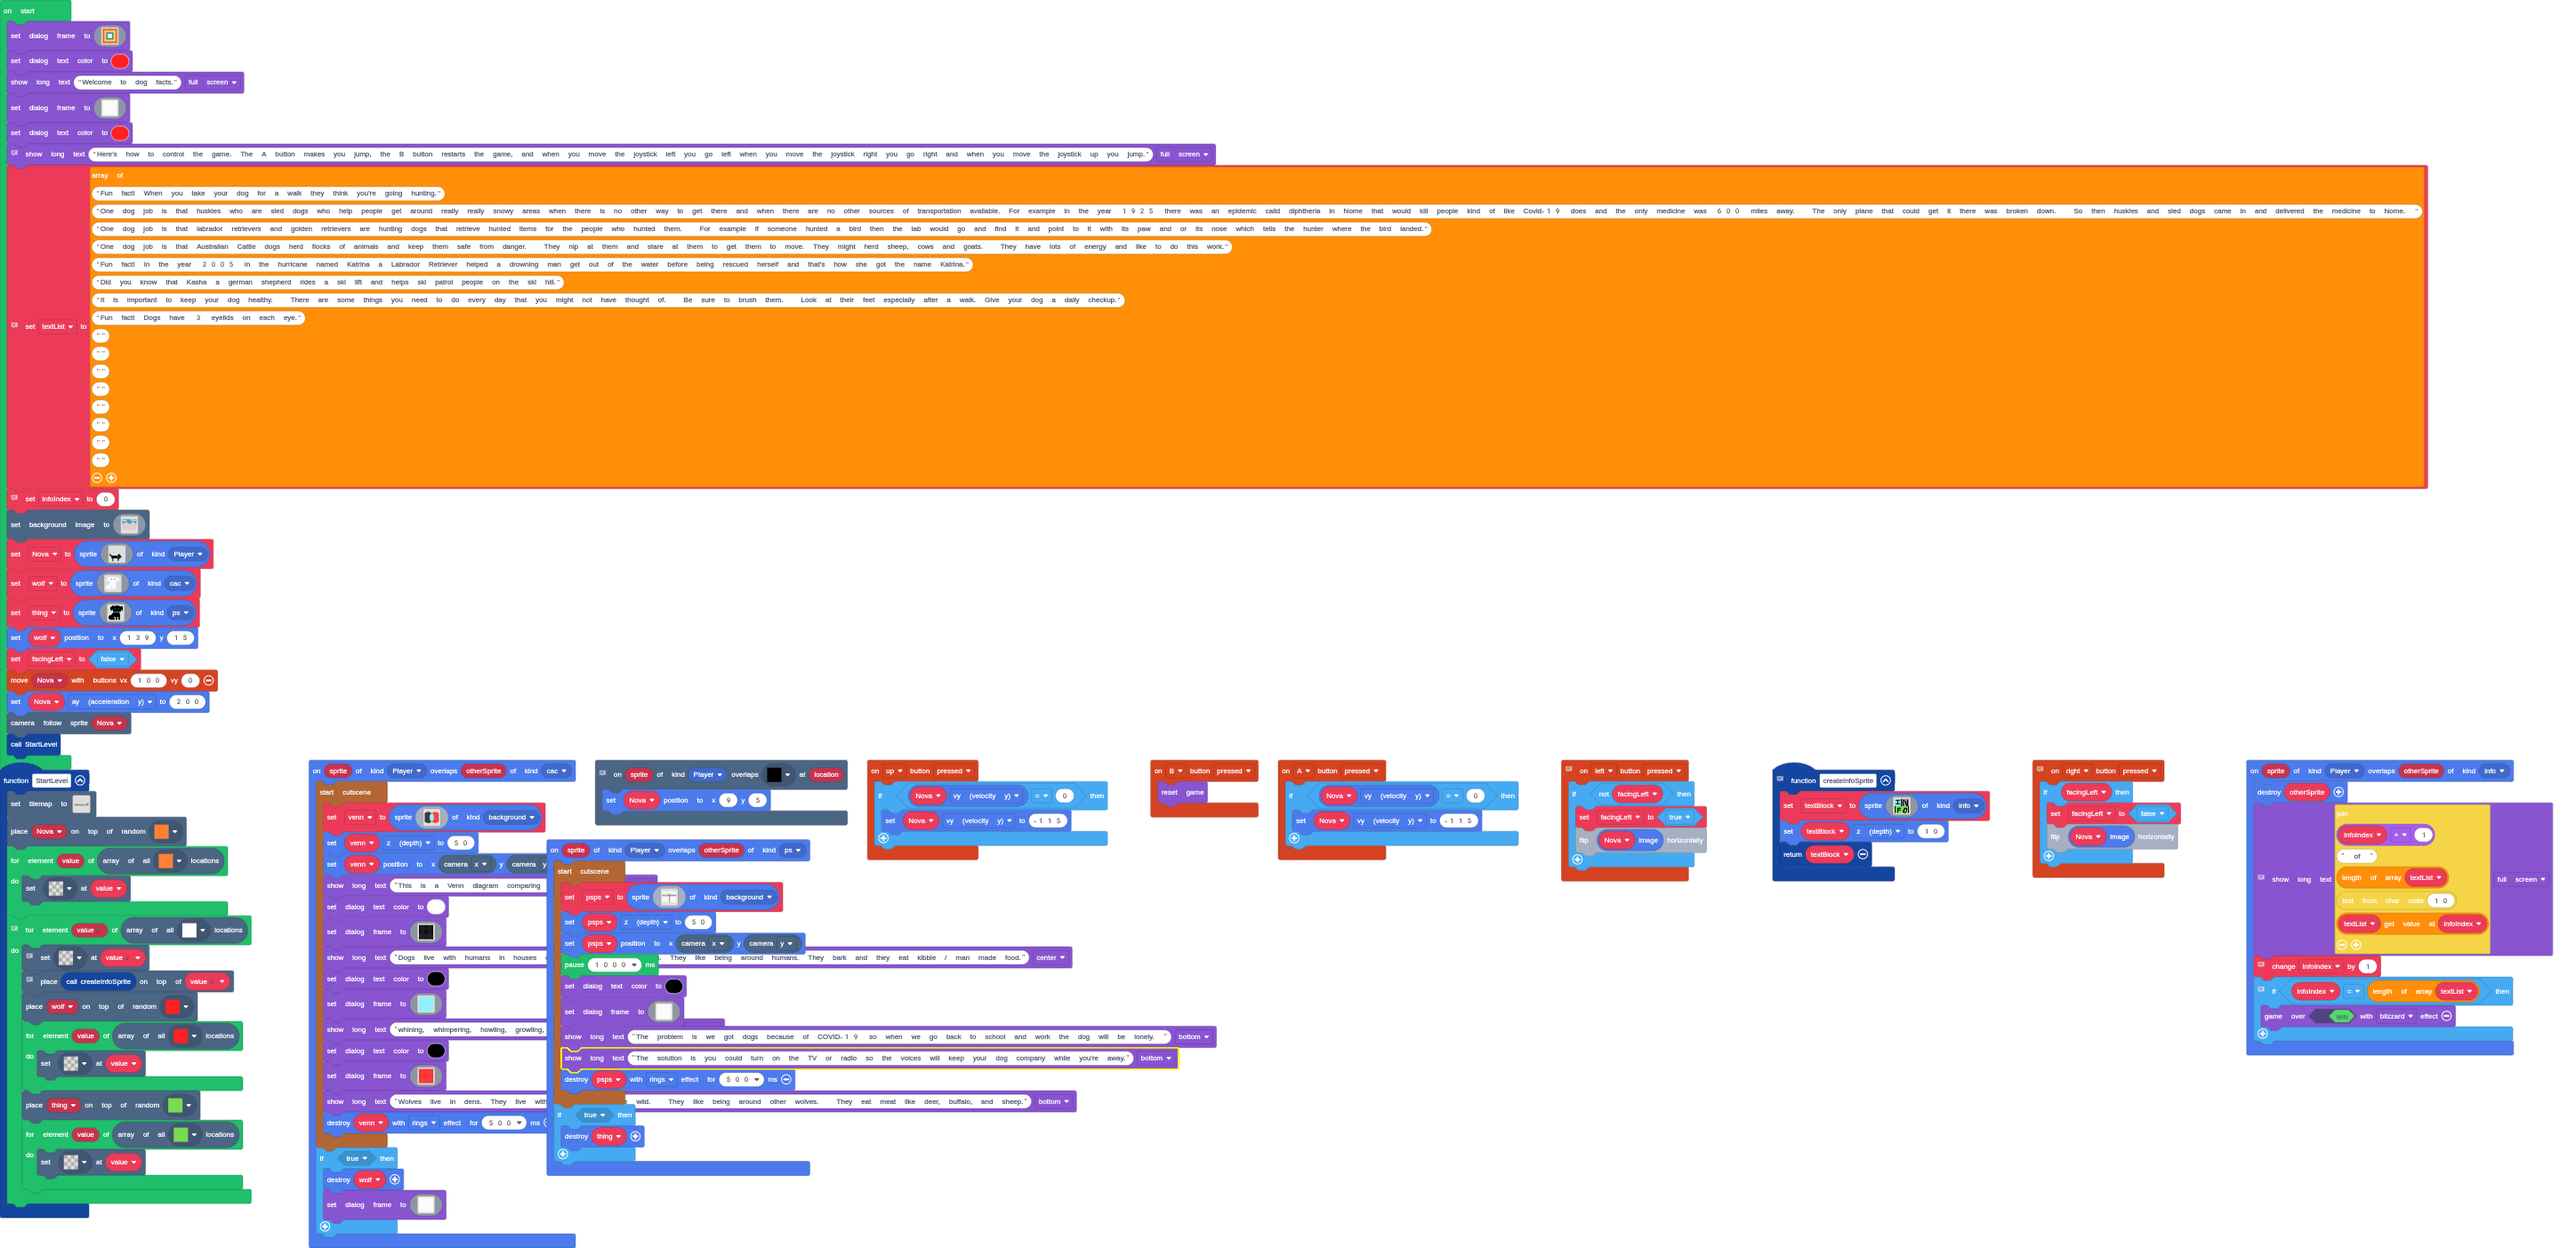
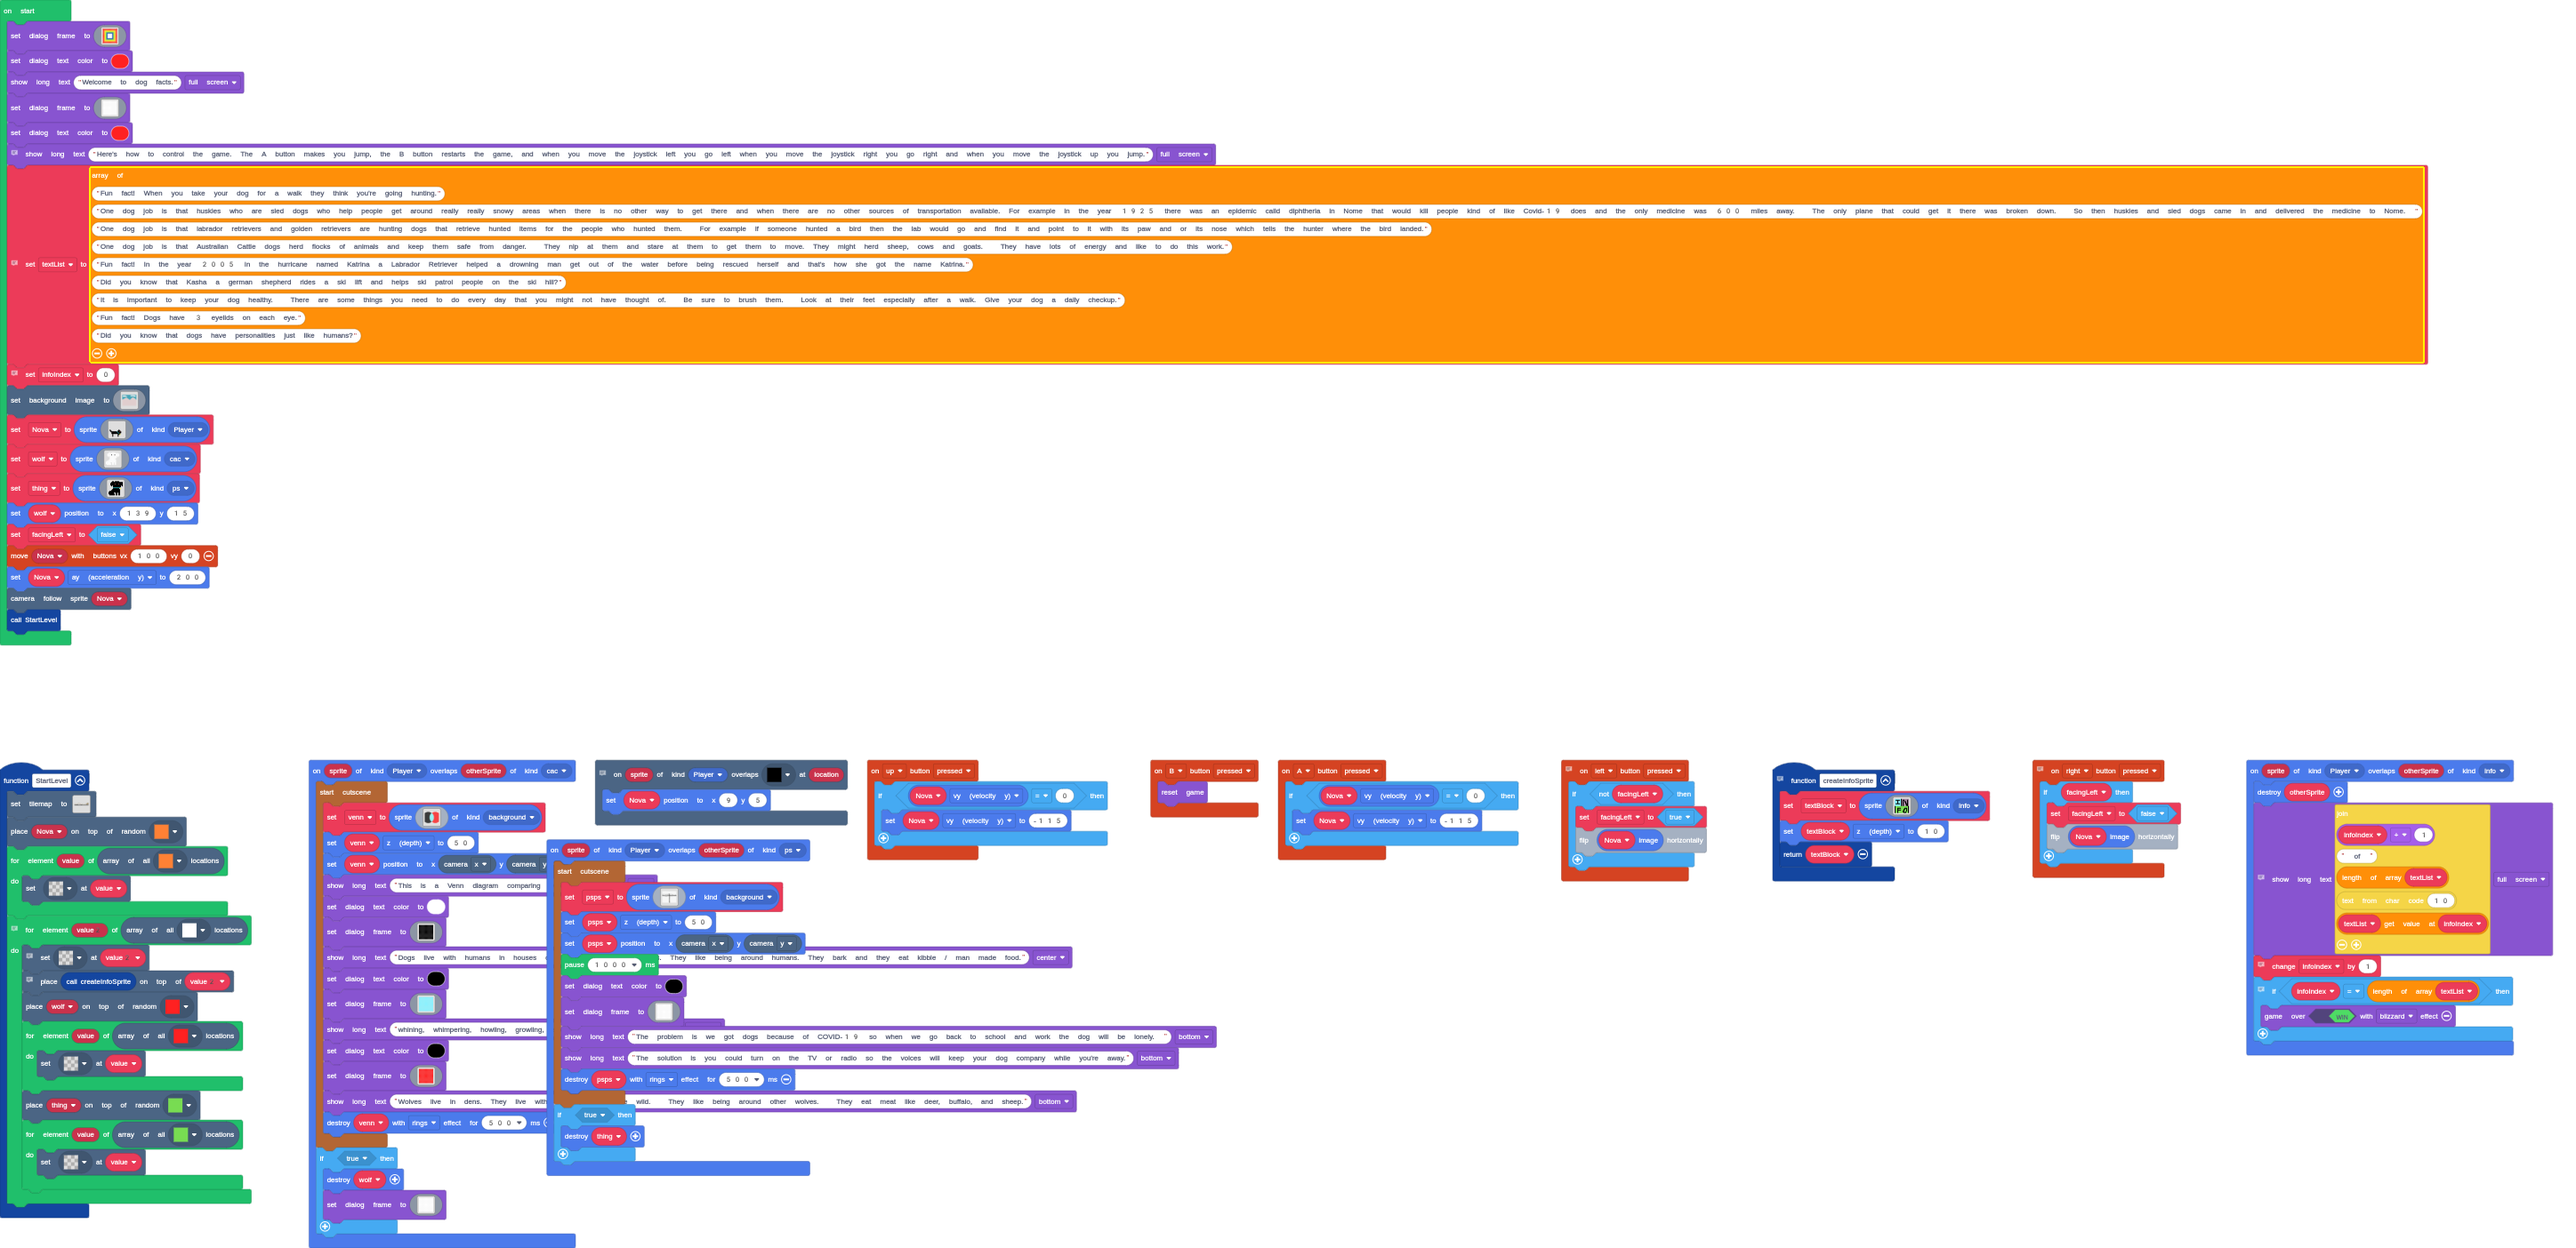
Update main.blocks, main.ts, tilemap.g.jres, tilemap.g.ts, images.g.jres, images.g.ts

Changed region(s): [[0.0, 0.245, 0.9634, 0.6125]]

diff --git a/images.g.ts b/images.g.ts
@@ -580,244 +580,6 @@ ffffffffffffffffffffffffffffffffffffffffffffffffffffffffffffffffffffffffffffffff
[2 lines of base64/hex data omitted]
 `;
-            case "image10":return img`
-9 9 9 9 9 9 9 9 9 9 9 9 9 9 9 
-9 9 9 9 9 9 9 9 9 9 9 9 9 9 9 
-9 9 9 9 9 9 9 9 9 9 9 9 9 9 9 
-9 9 9 9 9 9 9 9 9 9 9 9 9 9 9 
-9 9 9 9 9 9 9 9 9 9 9 9 9 9 9 
-9 9 9 9 9 9 9 9 9 9 9 9 9 9 9 
-9 9 9 9 9 9 9 9 9 9 9 9 9 9 9 
-9 9 9 9 9 9 9 9 9 9 9 9 9 9 9 
-9 9 9 9 9 9 9 9 9 9 9 9 9 9 9 
-9 9 9 9 9 9 9 9 9 9 9 9 9 9 9 
-9 9 9 9 9 9 9 9 9 9 9 9 9 9 9 
-9 9 9 9 9 9 9 9 9 9 9 9 9 9 9 
-9 9 9 9 9 9 9 9 9 9 9 9 9 9 9 
-9 9 9 9 9 9 9 9 9 9 9 9 9 9 9 
-9 9 9 9 9 9 9 9 9 9 9 9 9 9 9 
-`;
-            case "image11":return img`
-2 2 2 2 2 2 2 2 2 2 2 2 2 2 2 
-2 2 2 2 2 2 2 2 2 2 2 2 2 2 2 
-2 2 2 2 2 2 2 2 2 2 2 2 2 2 2 
-2 2 2 2 2 2 2 2 2 2 2 2 2 2 2 
-2 2 2 2 2 2 2 2 2 2 2 2 2 2 2 
-2 2 2 2 2 2 2 2 2 2 2 2 2 2 2 
-2 2 2 2 2 2 2 2 2 2 2 2 2 2 2 
-2 2 2 2 2 2 2 2 2 2 2 2 2 2 2 
-2 2 2 2 2 2 2 2 2 2 2 2 2 2 2 
-2 2 2 2 2 2 2 2 2 2 2 2 2 2 2 
-2 2 2 2 2 2 2 2 2 2 2 2 2 2 2 
-2 2 2 2 2 2 2 2 2 2 2 2 2 2 2 
-2 2 2 2 2 2 2 2 2 2 2 2 2 2 2 
-2 2 2 2 2 2 2 2 2 2 2 2 2 2 2 
-2 2 2 2 2 2 2 2 2 2 2 2 2 2 2 
-`;
-            case "image13":return img`
-1 1 1 1 1 1 1 1 1 1 1 1 1 1 1 
-1 1 1 1 1 1 1 1 1 1 1 1 1 1 1 
-1 1 1 1 1 1 1 1 1 1 1 1 1 1 1 
-1 1 1 1 1 1 1 1 1 1 1 1 1 1 1 
-1 1 1 1 1 1 1 1 1 1 1 1 1 1 1 
-1 1 1 1 1 1 1 1 1 1 1 1 1 1 1 
-1 1 1 1 1 1 1 1 1 1 1 1 1 1 1 
-1 1 1 1 1 1 1 1 1 1 1 1 1 1 1 
-1 1 1 1 1 1 1 1 1 1 1 1 1 1 1 
-1 1 1 1 1 1 1 1 1 1 1 1 1 1 1 
-1 1 1 1 1 1 1 1 1 1 1 1 1 1 1 
-1 1 1 1 1 1 1 1 1 1 1 1 1 1 1 
-1 1 1 1 1 1 1 1 1 1 1 1 1 1 1 
-1 1 1 1 1 1 1 1 1 1 1 1 1 1 1 
-1 1 1 1 1 1 1 1 1 1 1 1 1 1 1 
-`;
-            case "image14":return img`
-9 9 9 9 9 9 9 9 9 9 9 9 9 9 9 
-9 9 9 9 9 9 9 9 9 9 9 9 9 9 9 
-9 9 9 9 9 9 9 9 9 9 9 9 9 9 9 
-9 9 9 9 9 9 9 9 9 9 9 9 9 9 9 
-9 9 9 9 9 9 9 9 9 9 9 9 9 9 9 
-9 9 9 9 9 9 9 9 9 9 9 9 9 9 9 
-9 9 9 9 9 9 9 9 9 9 9 9 9 9 9 
-9 9 9 9 9 9 9 9 9 9 9 9 9 9 9 
-9 9 9 9 9 9 9 9 9 9 9 9 9 9 9 
-9 9 9 9 9 9 9 9 9 9 9 9 9 9 9 
-9 9 9 9 9 9 9 9 9 9 9 9 9 9 9 
-9 9 9 9 9 9 9 9 9 9 9 9 9 9 9 
-9 9 9 9 9 9 9 9 9 9 9 9 9 9 9 
-9 9 9 9 9 9 9 9 9 9 9 9 9 9 9 
-9 9 9 9 9 9 9 9 9 9 9 9 9 9 9 
-`;
-            case "image18":return img`
-2 2 2 2 2 2 2 2 2 2 2 2 2 2 2 
-2 2 2 2 2 2 2 2 2 2 2 2 2 2 2 
-2 2 2 2 2 2 2 2 2 2 2 2 2 2 2 
-2 2 2 2 2 2 2 2 2 2 2 2 2 2 2 
-2 2 2 2 2 2 2 2 2 2 2 2 2 2 2 
-2 2 2 2 2 2 2 2 2 2 2 2 2 2 2 
-2 2 2 2 2 2 2 2 2 2 2 2 2 2 2 
-2 2 2 2 2 2 2 2 2 2 2 2 2 2 2 
-2 2 2 2 2 2 2 2 2 2 2 2 2 2 2 
-2 2 2 2 2 2 2 2 2 2 2 2 2 2 2 
-2 2 2 2 2 2 2 2 2 2 2 2 2 2 2 
-2 2 2 2 2 2 2 2 2 2 2 2 2 2 2 
-2 2 2 2 2 2 2 2 2 2 2 2 2 2 2 
-2 2 2 2 2 2 2 2 2 2 2 2 2 2 2 
-2 2 2 2 2 2 2 2 2 2 2 2 2 2 2 
-`;
-            case "image20":return img`
-1 1 1 1 1 1 1 1 1 1 1 1 1 1 1 
-1 1 1 1 1 1 1 1 1 1 1 1 1 1 1 
-1 1 1 1 1 1 1 1 1 1 1 1 1 1 1 
-1 1 1 1 1 1 1 1 1 1 1 1 1 1 1 
-1 1 1 1 1 1 1 1 1 1 1 1 1 1 1 
-1 1 1 1 1 1 1 1 1 1 1 1 1 1 1 
-1 1 1 1 1 1 1 1 1 1 1 1 1 1 1 
-1 1 1 1 1 1 1 1 1 1 1 1 1 1 1 
-1 1 1 1 1 1 1 1 1 1 1 1 1 1 1 
-1 1 1 1 1 1 1 1 1 1 1 1 1 1 1 
-1 1 1 1 1 1 1 1 1 1 1 1 1 1 1 
-1 1 1 1 1 1 1 1 1 1 1 1 1 1 1 
-1 1 1 1 1 1 1 1 1 1 1 1 1 1 1 
-1 1 1 1 1 1 1 1 1 1 1 1 1 1 1 
-1 1 1 1 1 1 1 1 1 1 1 1 1 1 1 
-`;
-            case "image21":return img`
-9 9 9 9 9 9 9 9 9 9 9 9 9 9 9 
-9 9 9 9 9 9 9 9 9 9 9 9 9 9 9 
-9 9 9 9 9 9 9 9 9 9 9 9 9 9 9 
-9 9 9 9 9 9 9 9 9 9 9 9 9 9 9 
-9 9 9 9 9 9 9 9 9 9 9 9 9 9 9 
-9 9 9 9 9 9 9 9 9 9 9 9 9 9 9 
-9 9 9 9 9 9 9 9 9 9 9 9 9 9 9 
-9 9 9 9 9 9 9 9 9 9 9 9 9 9 9 
-9 9 9 9 9 9 9 9 9 9 9 9 9 9 9 
-9 9 9 9 9 9 9 9 9 9 9 9 9 9 9 
-9 9 9 9 9 9 9 9 9 9 9 9 9 9 9 
-9 9 9 9 9 9 9 9 9 9 9 9 9 9 9 
-9 9 9 9 9 9 9 9 9 9 9 9 9 9 9 
-9 9 9 9 9 9 9 9 9 9 9 9 9 9 9 
-9 9 9 9 9 9 9 9 9 9 9 9 9 9 9 
-`;
-            case "image22":return img`
-2 2 2 2 2 2 2 2 2 2 2 2 2 2 2 
-2 2 2 2 2 2 2 2 2 2 2 2 2 2 2 
-2 2 2 2 2 2 2 2 2 2 2 2 2 2 2 
-2 2 2 2 2 2 2 2 2 2 2 2 2 2 2 
-2 2 2 2 2 2 2 2 2 2 2 2 2 2 2 
-2 2 2 2 2 2 2 2 2 2 2 2 2 2 2 
-2 2 2 2 2 2 2 2 2 2 2 2 2 2 2 
-2 2 2 2 2 2 2 2 2 2 2 2 2 2 2 
-2 2 2 2 2 2 2 2 2 2 2 2 2 2 2 
-2 2 2 2 2 2 2 2 2 2 2 2 2 2 2 
-2 2 2 2 2 2 2 2 2 2 2 2 2 2 2 
-2 2 2 2 2 2 2 2 2 2 2 2 2 2 2 
-2 2 2 2 2 2 2 2 2 2 2 2 2 2 2 
-2 2 2 2 2 2 2 2 2 2 2 2 2 2 2 
-2 2 2 2 2 2 2 2 2 2 2 2 2 2 2 
-`;
-            case "image23":return img`
-9 9 9 9 9 9 9 9 9 9 9 9 9 9 9 
-9 9 9 9 9 9 9 9 9 9 9 9 9 9 9 
-9 9 9 9 9 9 9 9 9 9 9 9 9 9 9 
-9 9 9 9 9 9 9 9 9 9 9 9 9 9 9 
-9 9 9 9 9 9 9 9 9 9 9 9 9 9 9 
-9 9 9 9 9 9 9 9 9 9 9 9 9 9 9 
-9 9 9 9 9 9 9 9 9 9 9 9 9 9 9 
-9 9 9 9 9 9 9 9 9 9 9 9 9 9 9 
-9 9 9 9 9 9 9 9 9 9 9 9 9 9 9 
-9 9 9 9 9 9 9 9 9 9 9 9 9 9 9 
-9 9 9 9 9 9 9 9 9 9 9 9 9 9 9 
-9 9 9 9 9 9 9 9 9 9 9 9 9 9 9 
-9 9 9 9 9 9 9 9 9 9 9 9 9 9 9 
-9 9 9 9 9 9 9 9 9 9 9 9 9 9 9 
-9 9 9 9 9 9 9 9 9 9 9 9 9 9 9 
-`;
-            case "image24":return img`
-2 2 2 2 2 2 2 2 2 2 2 2 2 2 2 
-2 2 2 2 2 2 2 2 2 2 2 2 2 2 2 
-2 2 2 2 2 2 2 2 2 2 2 2 2 2 2 
-2 2 2 2 2 2 2 2 2 2 2 2 2 2 2 
-2 2 2 2 2 2 2 2 2 2 2 2 2 2 2 
-2 2 2 2 2 2 2 2 2 2 2 2 2 2 2 
-2 2 2 2 2 2 2 2 2 2 2 2 2 2 2 
-2 2 2 2 2 2 2 2 2 2 2 2 2 2 2 
-2 2 2 2 2 2 2 2 2 2 2 2 2 2 2 
-2 2 2 2 2 2 2 2 2 2 2 2 2 2 2 
-2 2 2 2 2 2 2 2 2 2 2 2 2 2 2 
-2 2 2 2 2 2 2 2 2 2 2 2 2 2 2 
-2 2 2 2 2 2 2 2 2 2 2 2 2 2 2 
-2 2 2 2 2 2 2 2 2 2 2 2 2 2 2 
-2 2 2 2 2 2 2 2 2 2 2 2 2 2 2 
-`;
-            case "image25":return img`
-9 9 9 9 9 9 9 9 9 9 9 9 9 9 9 
-9 9 9 9 9 9 9 9 9 9 9 9 9 9 9 
-9 9 9 9 9 9 9 9 9 9 9 9 9 9 9 
-9 9 9 9 9 9 9 9 9 9 9 9 9 9 9 
-9 9 9 9 9 9 9 9 9 9 9 9 9 9 9 
-9 9 9 9 9 9 9 9 9 9 9 9 9 9 9 
-9 9 9 9 9 9 9 9 9 9 9 9 9 9 9 
-9 9 9 9 9 9 9 9 9 9 9 9 9 9 9 
-9 9 9 9 9 9 9 9 9 9 9 9 9 9 9 
-9 9 9 9 9 9 9 9 9 9 9 9 9 9 9 
-9 9 9 9 9 9 9 9 9 9 9 9 9 9 9 
-9 9 9 9 9 9 9 9 9 9 9 9 9 9 9 
-9 9 9 9 9 9 9 9 9 9 9 9 9 9 9 
-9 9 9 9 9 9 9 9 9 9 9 9 9 9 9 
-9 9 9 9 9 9 9 9 9 9 9 9 9 9 9 
-`;
-            case "image26":return img`
-2 2 2 2 2 2 2 2 2 2 2 2 2 2 2 
-2 2 2 2 2 2 2 2 2 2 2 2 2 2 2 
-2 2 2 2 2 2 2 2 2 2 2 2 2 2 2 
-2 2 2 2 2 2 2 2 2 2 2 2 2 2 2 
-2 2 2 2 2 2 2 2 2 2 2 2 2 2 2 
-2 2 2 2 2 2 2 2 2 2 2 2 2 2 2 
-2 2 2 2 2 2 2 2 2 2 2 2 2 2 2 
-2 2 2 2 2 2 2 2 2 2 2 2 2 2 2 
-2 2 2 2 2 2 2 2 2 2 2 2 2 2 2 
-2 2 2 2 2 2 2 2 2 2 2 2 2 2 2 
-2 2 2 2 2 2 2 2 2 2 2 2 2 2 2 
-2 2 2 2 2 2 2 2 2 2 2 2 2 2 2 
-2 2 2 2 2 2 2 2 2 2 2 2 2 2 2 
-2 2 2 2 2 2 2 2 2 2 2 2 2 2 2 
-2 2 2 2 2 2 2 2 2 2 2 2 2 2 2 
-`;
-            case "image27":return img`
-2 2 2 2 2 2 2 2 2 2 2 2 2 2 2 
-2 2 2 2 2 2 2 2 2 2 2 2 2 2 2 
-2 2 2 2 2 2 2 2 2 2 2 2 2 2 2 
-2 2 2 2 2 2 2 2 2 2 2 2 2 2 2 
-2 2 2 2 2 2 2 2 2 2 2 2 2 2 2 
-2 2 2 2 2 2 2 2 2 2 2 2 2 2 2 
-2 2 2 2 2 2 2 2 2 2 2 2 2 2 2 
-2 2 2 2 2 2 2 2 2 2 2 2 2 2 2 
-2 2 2 2 2 2 2 2 2 2 2 2 2 2 2 
-2 2 2 2 2 2 2 2 2 2 2 2 2 2 2 
-2 2 2 2 2 2 2 2 2 2 2 2 2 2 2 
-2 2 2 2 2 2 2 2 2 2 2 2 2 2 2 
-2 2 2 2 2 2 2 2 2 2 2 2 2 2 2 
-2 2 2 2 2 2 2 2 2 2 2 2 2 2 2 
-2 2 2 2 2 2 2 2 2 2 2 2 2 2 2 
-`;
-            case "image28":return img`
-2 2 2 2 2 2 2 2 2 2 2 2 2 2 2 
-2 2 2 2 2 2 2 2 2 2 2 2 2 2 2 
-2 2 2 2 2 2 2 2 2 2 2 2 2 2 2 
-2 2 2 2 2 2 2 2 2 2 2 2 2 2 2 
-2 2 2 2 2 2 2 2 2 2 2 2 2 2 2 
-2 2 2 2 2 2 2 2 2 2 2 2 2 2 2 
-2 2 2 2 2 2 2 2 2 2 2 2 2 2 2 
-2 2 2 2 2 2 2 2 2 2 2 2 2 2 2 
-2 2 2 2 2 2 2 2 2 2 2 2 2 2 2 
-2 2 2 2 2 2 2 2 2 2 2 2 2 2 2 
-2 2 2 2 2 2 2 2 2 2 2 2 2 2 2 
-2 2 2 2 2 2 2 2 2 2 2 2 2 2 2 
-2 2 2 2 2 2 2 2 2 2 2 2 2 2 2 
-2 2 2 2 2 2 2 2 2 2 2 2 2 2 2 
-2 2 2 2 2 2 2 2 2 2 2 2 2 2 2 
-`;
         }
         return null;
     })

diff --git a/tilemap.g.ts b/tilemap.g.ts
@@ -94,7 +94,7 @@ namespace myTiles {
 . . . . . . . . . . . . . . . . 
 `, [myTiles.transparency16], TileScale.Sixteen);
             case "level0":
[2 lines of base64/hex data omitted]
 ..........................................................................................
 ..............................22.................................................222222222
 ...........................2222.................................................2222222222

diff --git a/main.ts b/main.ts
@@ -511,17 +511,10 @@ textList = [
 "One dog job is that labrador retrievers and golden retrievers are hunting dogs that retrieve hunted items for the people who hunted them.  For example if someone hunted a bird then the lab would go and find it and point to it with its paw and or its nose which tells the hunter where the bird landed.",
 "One dog job is that Australian Cattle dogs herd flocks of animals and keep them safe from danger.  They nip at them and stare at them to get them to move. They might herd sheep, cows and goats.  They have lots of energy and like to do this work.",
 "Fun fact! In the year 2005 in the hurricane named Katrina a Labrador Retriever helped a drowning man get out of the water before being rescued herself and that's how she got the name Katrina.",
-"Did you know that Kasha a german shepherd rides a ski lift and helps ski patrol people on the ski hill.",
+"Did you know that Kasha a german shepherd rides a ski lift and helps ski patrol people on the ski hill?",
 "It is important to keep your dog healthy.  There are some things you need to do every day that you might not have thought of.  Be sure to brush them.  Look at their feet especially after a walk. Give your dog a daily checkup.",
 "Fun fact! Dogs have 3 eyelids on each eye.",
-"",
-"",
-"",
-"",
-"",
-"",
-"",
-""
+"Did you know that dogs have personalities just like humans?"
 ]
 // Keep track of which info string from textList should be displayed.  Starts counting at zero.
 infoIndex = 0
